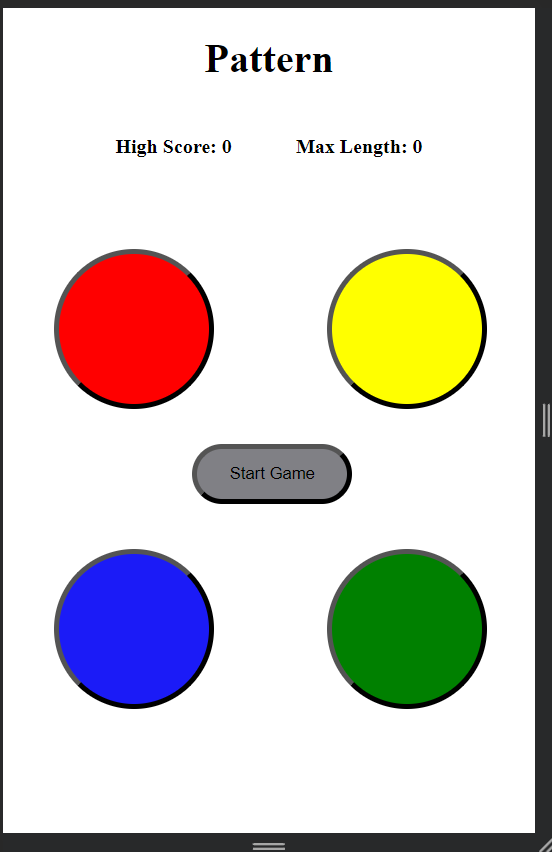
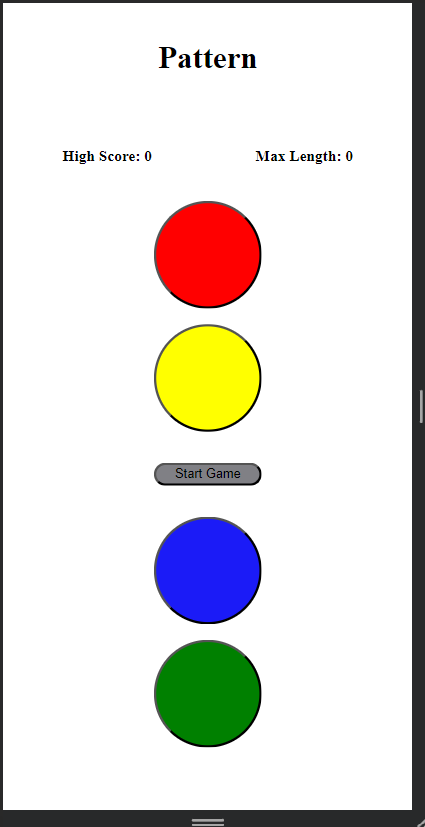
docs: added new pattern displays, edited readme

diff --git a/README.md b/README.md
@@ -50,6 +50,8 @@ The site shifts to accommodate several screen sizes while keeping the same basic
 
 ![Tablet screen, 768px wide.](docs/pattern-tablet-display.png)
 
+On smaller screens, the buttons shift to a more vertical layout.
+
 ![Mobile screen, 425px wide.](docs/pattern-mobile-l-display.png)
 
 #### Colours
